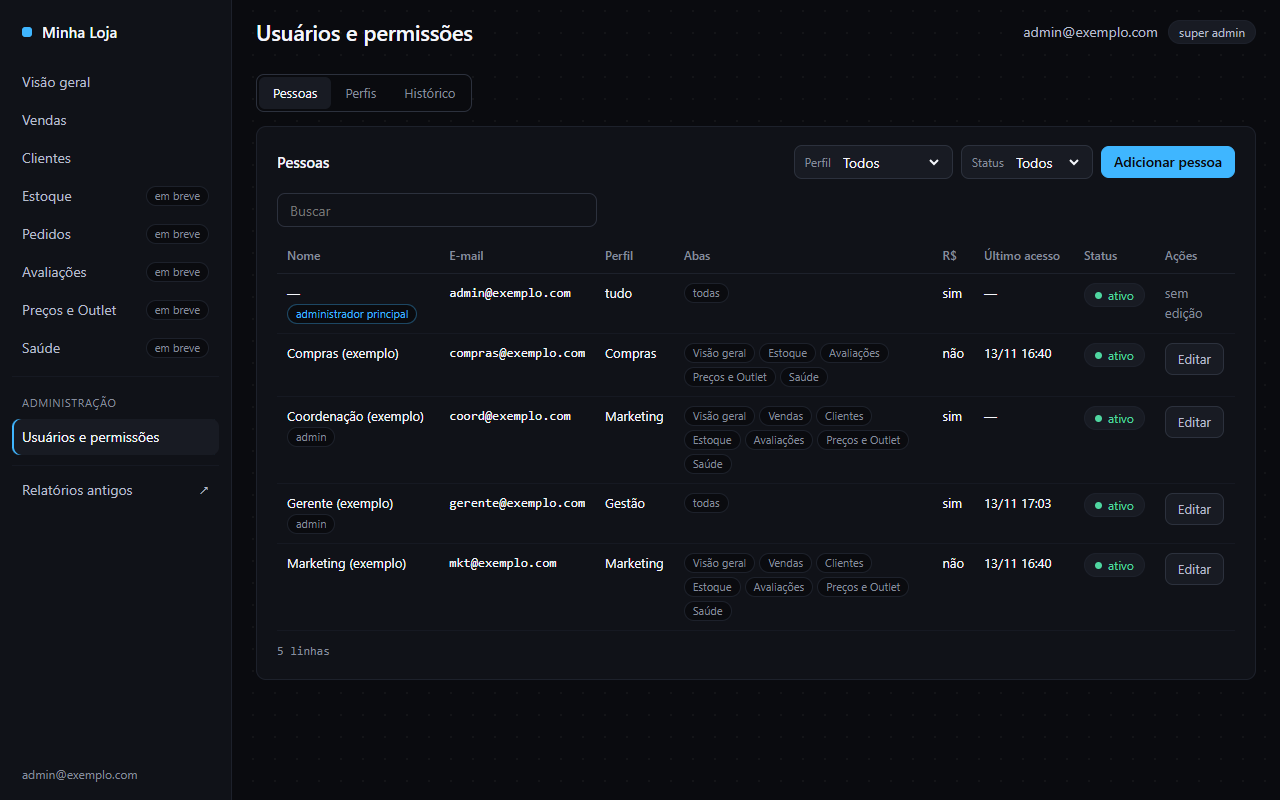
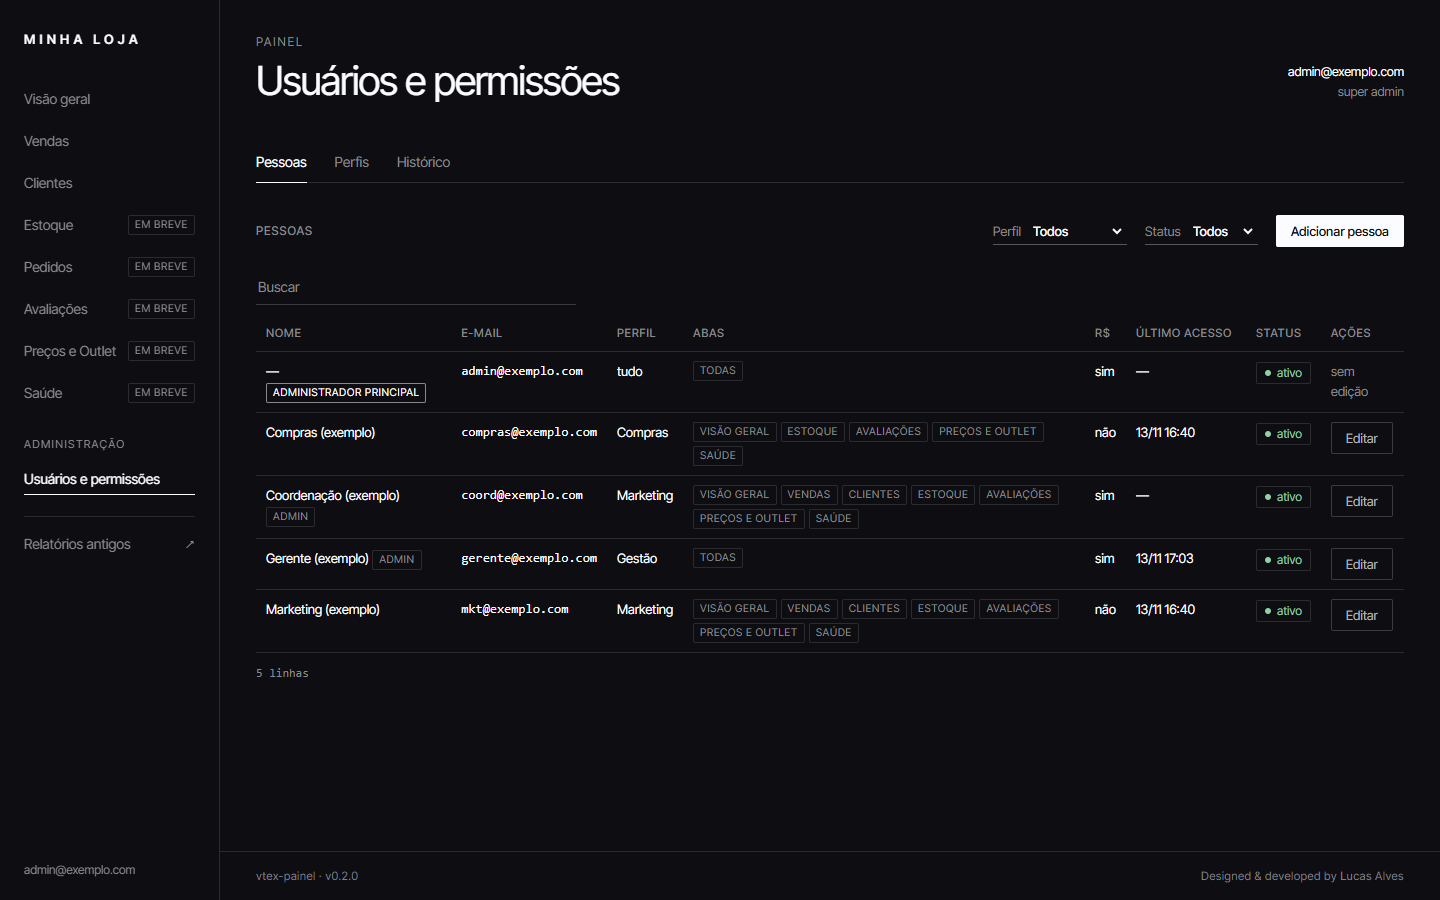
chore: v0.2.0 com o visual escuro

diff --git a/public/js/versao.js b/public/js/versao.js
@@ -1,2 +1,2 @@
 // Versão do produto mostrada no rodapé. Um teste garante que é igual à do package.json.
-export const VERSAO = '0.1.0';
+export const VERSAO = '0.2.0';
